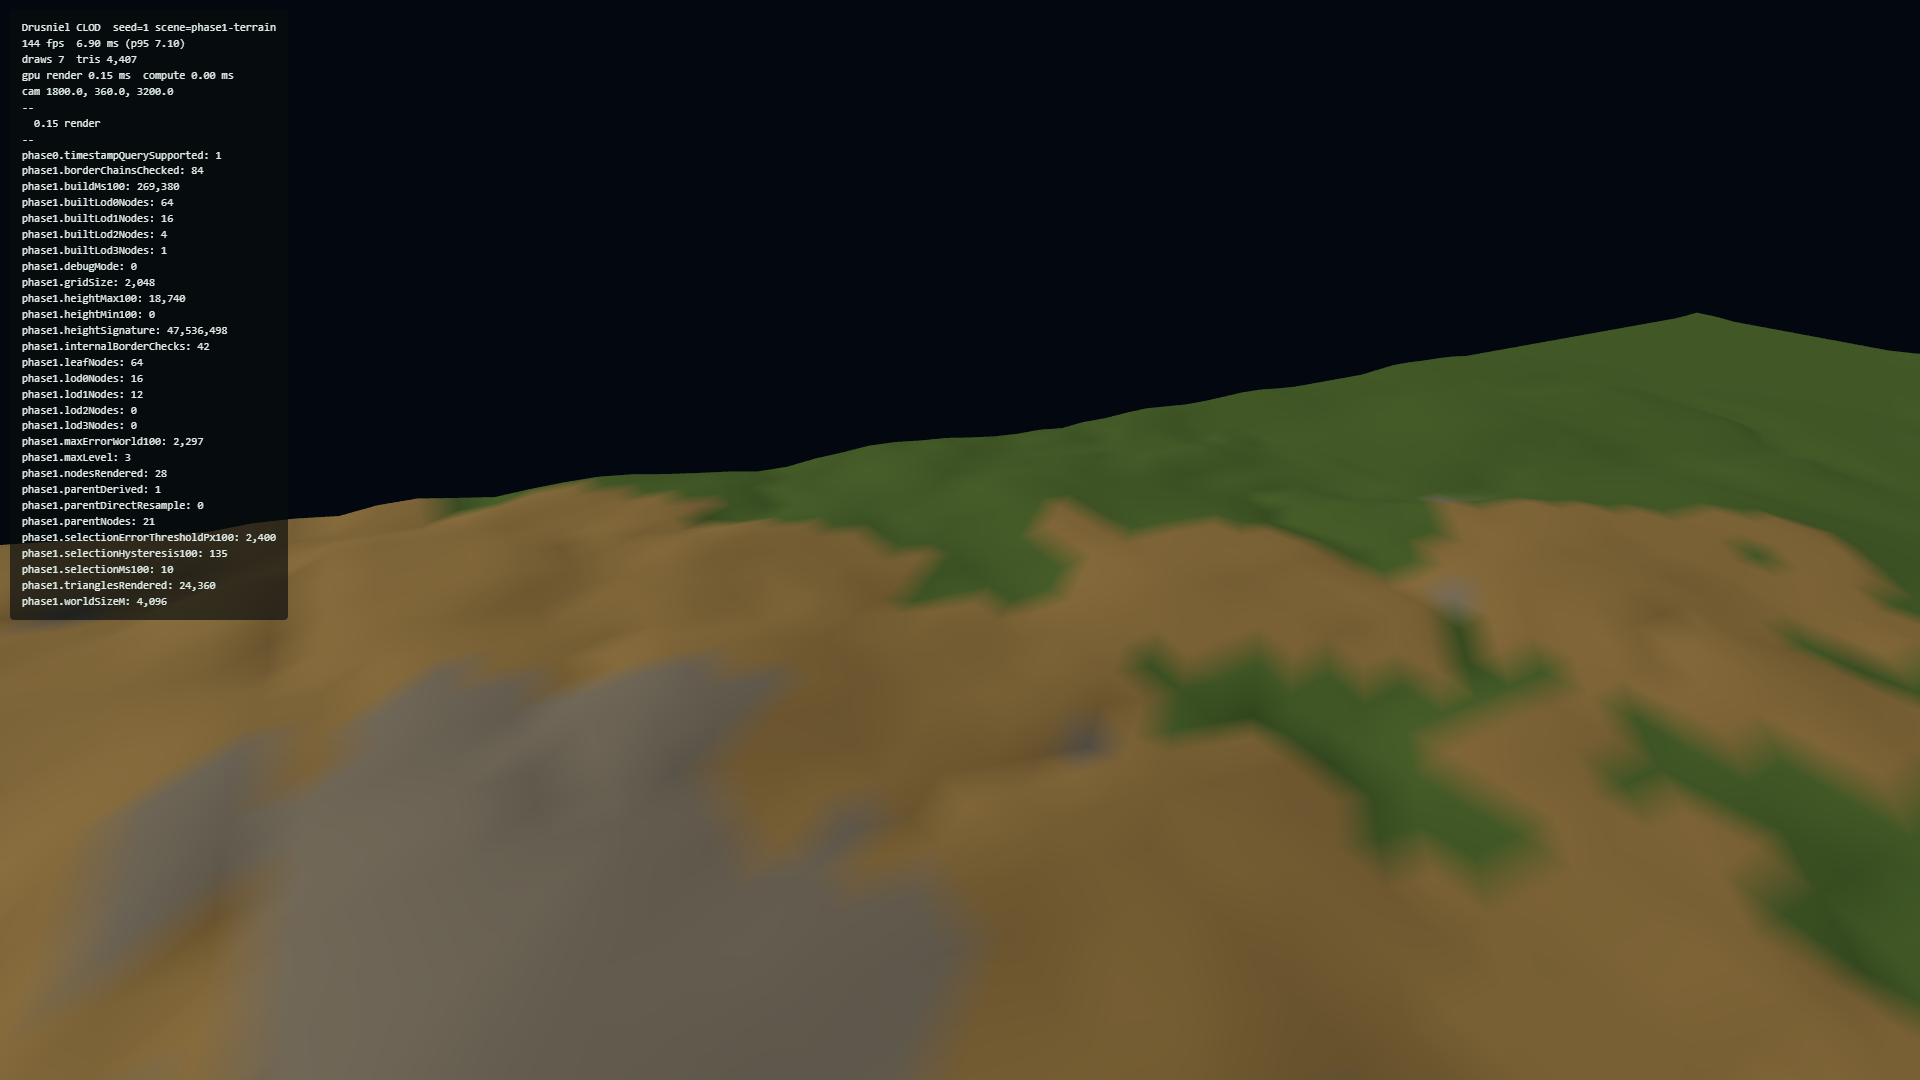
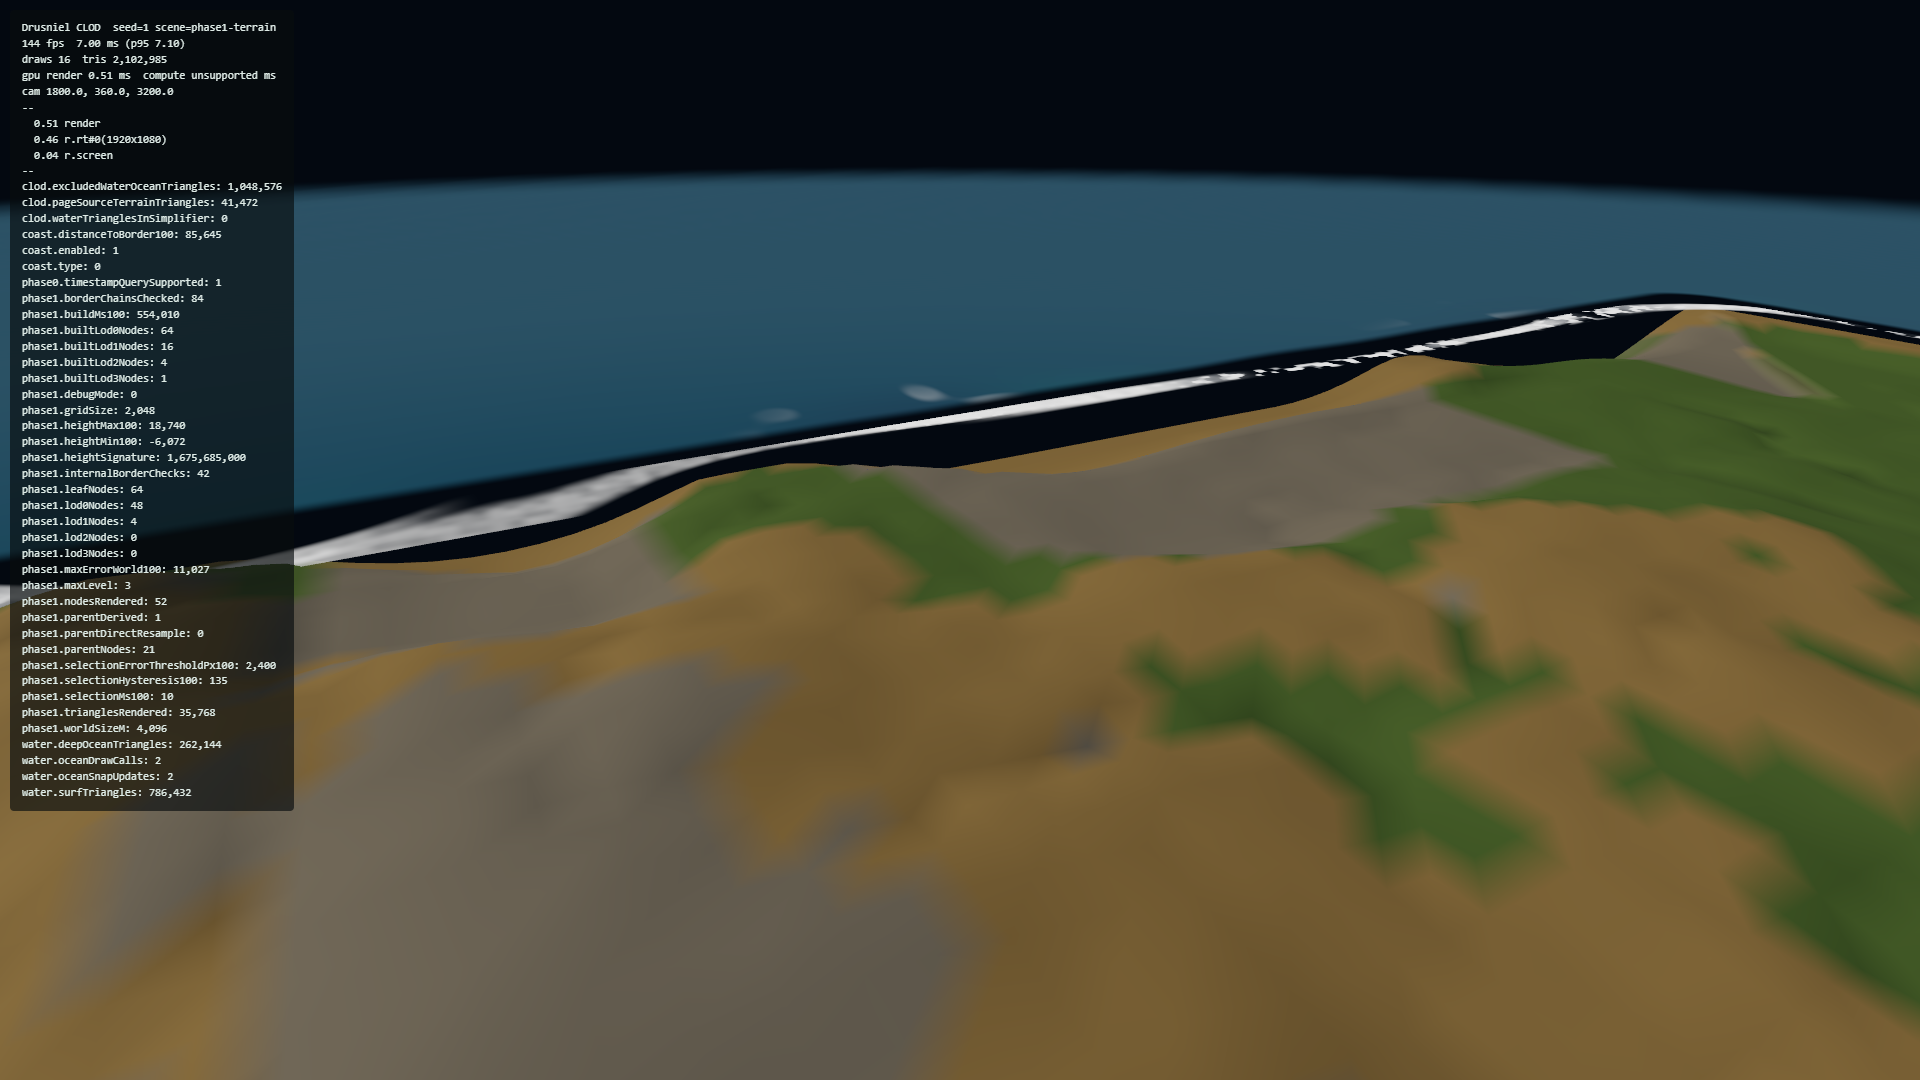
shadow sweep investigation

diff --git a/tools/clod-poc/tools/battery.ts b/tools/clod-poc/tools/battery.ts
@@ -1,5 +1,5 @@
 import { existsSync, mkdirSync, readFileSync } from "node:fs";
-import { spawnSync } from "node:child_process";
+import { spawn, spawnSync, type ChildProcess } from "node:child_process";
 import {
   borderOceanCameraForWorld,
   parseBorderOceanSceneConfig,
@@ -36,6 +36,68 @@ const INFINITE_ISLANDS_DIR = "shots/infinite-islands";
 const INFINITE_ISLANDS_SHOT = `${INFINITE_ISLANDS_DIR}/walk.png`;
 const INFINITE_ISLANDS_STATS = `${INFINITE_ISLANDS_DIR}/walk-stats.json`;
 const INFINITE_ISLANDS_FRAME_MS_P95_MAX = 8;
+const DEFAULT_BASE_URL = "http://127.0.0.1:5173/";
+const SERVER_TIMEOUT_MS = 90_000;
+const SERVER_POLL_MS = 500;
+
+process.env["CLOD_POC_BASE_URL"] ??= DEFAULT_BASE_URL;
+
+const isWindows = process.platform === "win32";
+const npxBin = isWindows ? "npx.cmd" : "npx";
+
+function delay(ms: number): Promise<void> {
+  return new Promise((resolve) => setTimeout(resolve, ms));
+}
+
+async function isServerReady(url: string): Promise<boolean> {
+  try {
+    const response = await fetch(url, { method: "GET" });
+    return response.ok;
+  } catch {
+    return false;
+  }
+}
+
+function spawnVite(): ChildProcess {
+  const child = spawn(npxBin, ["vite", "--config", "vite.acceptance.config.ts"], {
+    cwd: process.cwd(),
+    env: process.env,
+    stdio: ["ignore", "pipe", "pipe"],
+    shell: isWindows,
+  });
+  child.stdout?.on("data", (chunk) => process.stdout.write(`[vite] ${chunk}`));
+  child.stderr?.on("data", (chunk) => process.stderr.write(`[vite] ${chunk}`));
+  child.on("error", (error) => {
+    console.error("[battery:vite] failed to start:", error.message);
+  });
+  return child;
+}
+
+async function ensureServer(): Promise<ChildProcess | null> {
+  const baseUrl = process.env["CLOD_POC_BASE_URL"] ?? DEFAULT_BASE_URL;
+  if (await isServerReady(baseUrl)) return null;
+
+  console.log(`[battery] starting Vite at ${baseUrl}`);
+  const server = spawnVite();
+  const deadline = Date.now() + SERVER_TIMEOUT_MS;
+  while (Date.now() < deadline) {
+    if (server.exitCode !== null) throw new Error(`Vite exited before becoming ready with code ${server.exitCode}`);
+    if (await isServerReady(baseUrl)) return server;
+    await delay(SERVER_POLL_MS);
+  }
+
+  stopChildTree(server);
+  throw new Error(`Timed out waiting for Vite at ${baseUrl}`);
+}
+
+function stopChildTree(child: ChildProcess | null): void {
+  if (!child || child.exitCode !== null || !child.pid) return;
+  if (isWindows) {
+    spawnSync("taskkill", ["/pid", String(child.pid), "/t", "/f"], { stdio: "ignore" });
+    return;
+  }
+  child.kill("SIGTERM");
+}
 
 function run(label: string, args: string[]): void {
   console.log(`[battery] ${label}`);
@@ -270,9 +332,13 @@ function main(): void {
   console.log("[battery] ok");
 }
 
+let server: ChildProcess | null = null;
 try {
+  server = await ensureServer();
   main();
 } catch (error) {
   console.error("[battery] FAILED:", error instanceof Error ? error.message : error);
-  process.exit(1);
+  process.exitCode = 1;
+} finally {
+  stopChildTree(server);
 }

diff --git a/tools/clod-poc/src/trees/tree_node_material.ts b/tools/clod-poc/src/trees/tree_node_material.ts
@@ -39,6 +39,12 @@ import type { PrepassNodes } from "../rendering/veg_prepass.js";
 import { bakeBarkTextures, type BarkTextures } from "../textures/barkSynth.js";
 import { TREE_LODS, type TreeLod, type TreeSettings } from "./tree_config.js";
 import type { TreeMaterialHandle } from "./tree_material.js";
+import {
+  TREE_RING_CELL_SIZE_M,
+  TREE_RING_JITTER_X_SALT,
+  TREE_RING_JITTER_Z_SALT,
+  TREE_RING_YAW_SALT,
+} from "./tree_ring_placement.js";
 
 /* eslint-disable @typescript-eslint/no-explicit-any */
 type TslNode = any;
@@ -351,7 +357,7 @@ export function createTreeRingNodeMaterialHandle(
   const uMidDistance = uniform(settings.distanceM * settings.lod.midFraction);
   const uFarDistance = uniform(settings.distanceM * settings.lod.farFraction);
   const uBandDistance = uniform(settings.lod.crossfadeEnabled ? settings.lod.crossfadeBandM : 0);
-  const uCellSize = uniform(3.4);
+  const uCellSize = uniform(TREE_RING_CELL_SIZE_M);
   const uSeed = uniform(settings.seed);
   const uLodIndex = uniform(TREE_LODS.indexOf(lod));
   const uLight = uniform(lighting.sunDirection.clone().normalize());
@@ -566,5 +572,4 @@ function applyWindUniforms(wind: TreeWindNodeUniforms, settings: TreeSettings): 
   wind.uWindSpeed.value = settings.wind.speed;
   wind.uGust.value = settings.wind.gustStrength * enabled;
   wind.uTrunkSway.value = settings.wind.trunkSwayStrength * enabled;
-  wind.uLeafFlutter.value = settings.wind.leafFlutterStrength * enabled;
-}
+  wind.uLeafFlutter.value = settings.wind.leafFlutterStreng

diff --git a/tools/clod-poc/src/debug/border_ocean_scene.ts b/tools/clod-poc/src/debug/border_ocean_scene.ts
@@ -3,7 +3,6 @@ import type { PlayerConfig } from "../player_controller.js";
 import type { WaterField } from "../water/waterField.js";
 import { WaterField as WaterFieldImpl } from "../water/waterField.js";
 import { parseWaterConfig } from "../water/waterConfig.js";
-import waterYaml from "../../config/water.yaml?raw";
 import type { OceanSampler } from "../water/ocean_service.js";
 import {
   countDeepOceanTransitionGapVertices,
@@ -246,7 +245,7 @@ export function probePlayableOceanOutside(sampler: OceanSampler, worldCells: num
 }
 
 export function probeCliffDryAboveSea(seaLevel: number, worldCells: number): number {
-  const field = new WaterFieldImpl(parseWaterConfig(waterYaml), { surfaceHeight: () => seaLevel + 24 }, null, worldCells);
+  const field = new WaterFieldImpl(parseWaterConfig(""), { surfaceHeight: () => seaLevel + 24 }, null, worldCells);
   field.setShoreSurfBand({ enabled: true, startDistance: 48, fullSurfDistance: 16, level: seaLevel, maxShallowDepth: 2.5 });
   const sample = field.sample(4, worldCells * 0.5);
   return sample.depth > 0 ? 0 : 1;

diff --git a/docs/perf/tree-preset-capture-2026-07-01.md b/docs/perf/tree-preset-capture-2026-07-01.md
@@ -78,6 +78,42 @@ A second client was connected to the dev server on 5180 during the run
   observation — that view has near-canopy overdraw this camera pose does not.
   A hero-forest capture needs a fixed dense-forest camera pose.
 
+## Shadow Budget Results (`treeShadowMaxLod` none vs near, world 8)
+
+Two passes: one with debug counts (`treeGpuCounts=1`, readback on) and one
+without (normal gameplay). FPS derived from `1000 / frameMs p50`.
+
+| Run | Readback | FPS p50 | Frame ms p50 | Frame ms p95 | Frame ms avg | Render ms p95 | Top phase p95 | Shadow casters avg |
+|---|---|---:|---:|---:|---:|---:|---|---:|
+| shadow none | on | ~278 | 3.60 | 6.90 | 4.04 | 5.30 | renderMs 5.30 | 0 |
+| shadow near | on | ~58 | 17.10 | 22.60 | 18.35 | 4.60 | vegetationTotalMs 12.10 | 473 |
+| shadow none | off | ~244 | 4.10 | 12.20 | 6.66 | 7.80 | renderMs 7.80 | n/a |
+| shadow near | off | ~238 | 4.20 | 10.70 | 5.59 | 5.60 | renderMs 5.60 | n/a |
+
+Artifacts: `perf-runs/shadow-{none,near}-2026-07-01` (counts on) and
+`perf-runs/shadow-{none,near}-nocounts-2026-07-01` (counts off).
+
+### Findings
+
+- **`treeShadowMaxLod=none` produces 0 shadow casters** (confirmed with
+  readback on). Working as intended.
+- **In normal gameplay (readback off), shadow LOD none vs near is NOT a
+  meaningful cost at this view**: 4.10 vs 4.20 ms p50, tree CPU sub-phase
+  0.1–0.2 ms either way. This **corrects an earlier hypothesis** that
+  view-independent shadows dominate tree cost — not supported by clean data
+  here.
+- **The 5× slowdown (3.6 → 17.1 ms) appeared only with `treeGpuCounts=1`.**
+  The extra ~13 ms landed in `vegetationTotalMs` (12.1) and `statsSyncMs` (6.9),
+  not the GPU `renderMs`. So it is a **debug-readback artifact**, worst when
+  shadow casters exist — not a real gameplay shadow cost.
+  - Practical caveat for the HUD visible-count instrument: enabling readback to
+    see live counts costs ~13 ms/frame here when tree shadows are on. Use it as
+    a diagnostic, not a normal-play setting. The readback-with-shadows CPU path
+    is itself a possible optimization target (debug-only).
+- Tree cost at this default world=8 view remains small; the machine also showed
+  run-to-run p95 variance (a second client was on the dev server), so treat p95
+  as soft.
+
 ## Not captured yet (and why)
 
 - **Quality-preset rows** (`?quality=ultra|balanced|perf|potato`), **FPS via
@@ -85,9 +121,8 @@ A second client was connected to the dev server on 5180 during the run
   by this harness pass.
 - **Debug-count rows** (visible/candidates/accepted/shadow casters): need
   `treeGpuCounts=1` (readback on). Not enabled in this run.
-- **Shadow-budget rows** (`treeShadowMaxLod=none|near|mid|far`): not run.
-  This is the highest-value next measurement given the view-independent shadow
-  hypothesis.
+- **Shadow-budget rows** for `mid`/`far`: only `none` and `near` captured
+  (see Shadow Budget Results above).
 - **CPU fallback control** (`treeGpu=0`, `treeGpuForceCpu=1`) and
   **CPU/GPU validation** (`treeGpuValidate=1`): not run.
 
@@ -98,13 +133,17 @@ A second client was connected to the dev server on 5180 during the run
 | Is the WebGPU tree path active? | Yes — `ring:300`, RTX 4080, no errors. |
 | Tree cost at default world=8 view | +0.4 ms p50 / +2.2 ms p95 vs trees-off. Modest. |
 | Does maxVisible / distance tuning help? | Inconclusive — sweep was noisy (GPU contention). Re-run needed. |
-| Does shadow LOD gating reduce cost? | Not measured yet. Highest-value next run. |
-| Should we tune preset values now? | No — not on this data. Get a clean hero-forest capture + shadow sweep first. |
+| Does shadow LOD gating reduce cost? | Not at this view in normal gameplay (none≈near, ~0). The big shadow delta was a `treeGpuCounts=1` readback artifact. |
+| Should we tune preset values now? | No — not on this data. Trees are cheap at this view; get a dense hero-forest capture before tuning. |
 
 ## Follow-up Actions
 
 - Re-run the `maxVisible`/`treeDistance` sweep on a quiet machine (close other
   tabs on 5180) to get monotonic, trustworthy deltas.
-- Capture a fixed **dense-forest** camera pose to measure the real hero cost.
-- Run the shadow-budget sweep with `treeGpuCounts=1` to test whether shadow
-  casters (view-independent) dominate tree cost.
+- Capture a fixed **dense-forest** camera pose to measure the real hero cost —
+  this is now the top priority, since trees are cheap at the default view and
+  shadows don't move gameplay frame time here.
+- Investigate the `treeGpuCounts=1` (readback) CPU cost with shadow casters
+  (~13 ms/frame): the count-visible-lists path stalls `vegetationTotalMs` /
+  `statsSyncMs`. Debug-only, but a clean-up target if we want a cheap live HUD
+  count.
